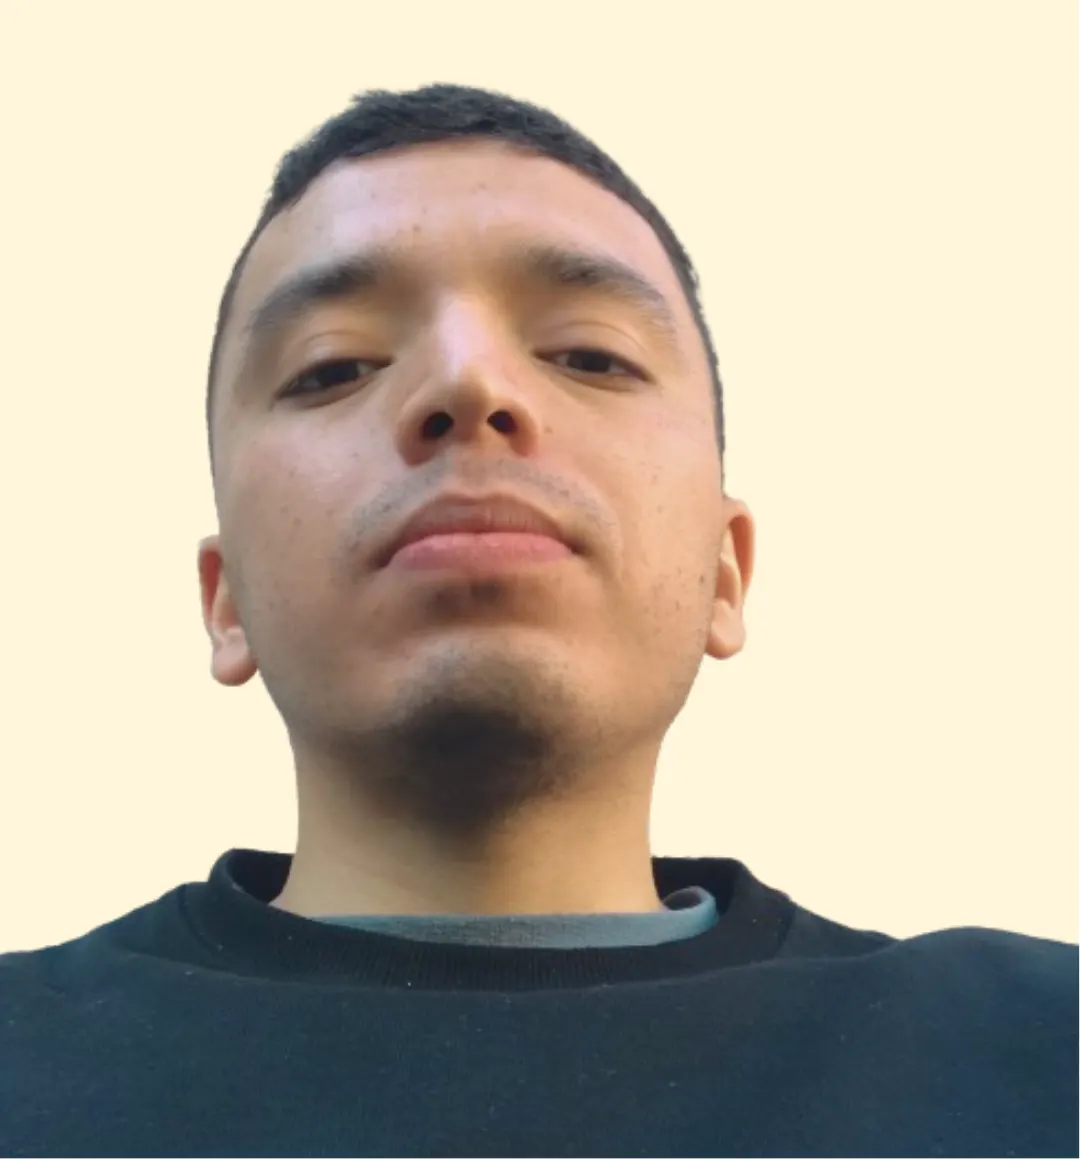
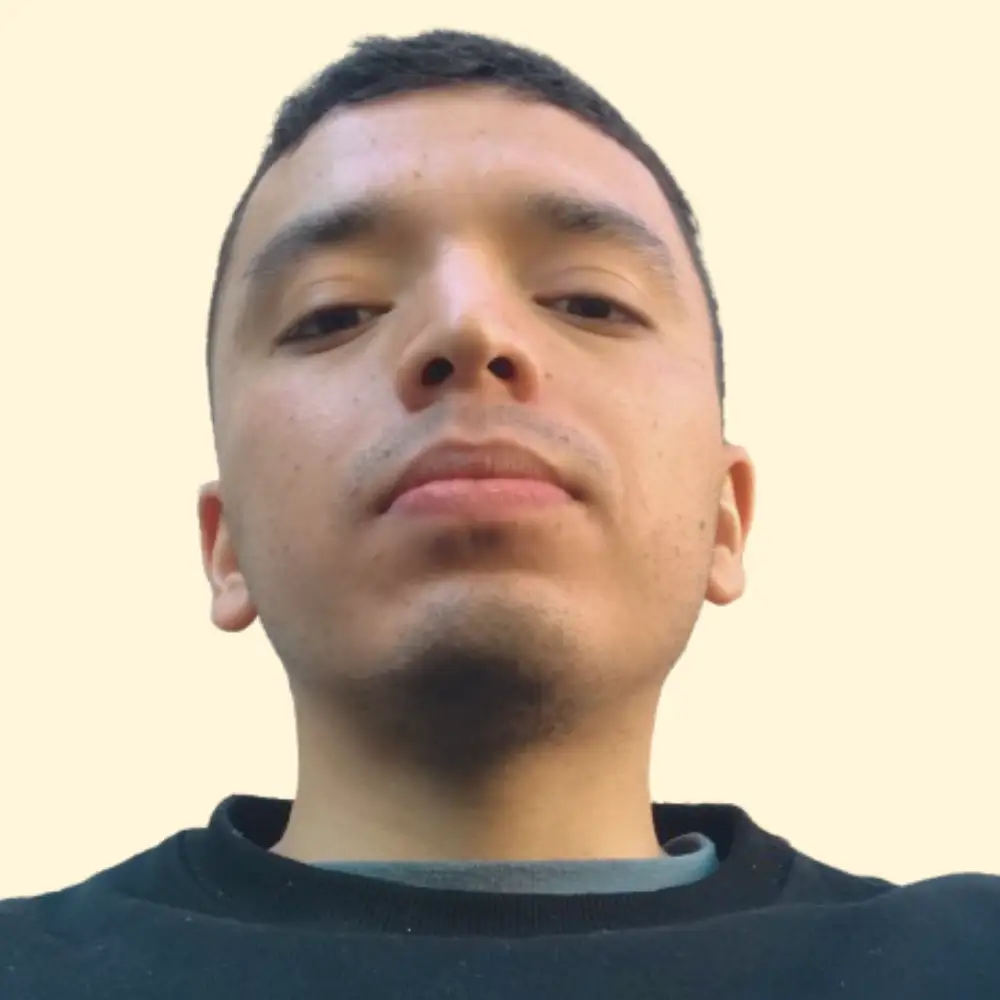
Add ProyectoCamanchaca image and update user profile

diff --git a/src/sections/Project/components/ProjectCard/ProjectCard.styles.js b/src/sections/Project/components/ProjectCard/ProjectCard.styles.js
@@ -3,34 +3,77 @@ import styled from "styled-components";
 const CardContainer = styled.article`
   display: flex;
   gap: ${({ theme }) => theme.spacing.medium};
-  padding: ${({ theme }) => theme.padding.large} ${({ theme }) => theme.padding.medium};
   border-radius: ${({ theme }) => theme.borderRadius.medium};
   background-color: ${({ theme }) => theme.colors.hover.secondary};
+  width: 100%;
+
+  & img {
+    filter: grayscale(100%);
+    transition: filter 0.3s ease;
+  }
+
+  &:hover img {
+    filter: grayscale(0%);
+    transform: scale(1.05);
+    transition: transform 0.3s ease;
+  }
 
   @media (width <= ${({ theme }) => theme.breakpoints.tablet}) {
     flex-direction: column;
   }
 `;
 
+const CardHeader = styled.header`
+  border-bottom: 1px solid ${({ theme }) => theme.colors.tertiary};
+
+  @media (width <= ${({ theme }) => theme.breakpoints.tablet}) {
+    text-align: center;
+  }
+`;
+
 const CardContentLeft = styled.section`
   display: flex;
   flex-direction: column;
+  width: 100%;
+  gap: ${({ theme }) => theme.spacing.medium};
+  padding: ${({ theme }) => theme.padding.large} 0;
+  padding-left: ${({ theme }) => theme.padding.medium};
+`;
+
+const CardContentRight = styled.section`
+  display: flex;
+  /* flex-direction: column; */
   justify-content: center;
   align-items: center;
-  gap: ${({ theme }) => theme.spacing.medium};
-  min-width: 220px;
-  
+  /* gap: ${({ theme }) => theme.spacing.medium}; */
+  min-width: 350px;
+  border-radius: 0 ${({ theme }) => theme.borderRadius.medium}
+  ${({ theme }) => theme.borderRadius.medium} 0;
+  overflow: hidden;
+
   @media (width <= ${({ theme }) => theme.breakpoints.tablet}) {
     order: 2;
     width: 100%;
   }
 `;
 
-const CardContentRight = styled.section`
+const CardLogoAnchor = styled.a`
   display: flex;
-  flex-direction: column;
-  gap: ${({ theme }) => theme.spacing.medium};
+  justify-content: center;
+  align-items: center;
+  width: 350px;
 `;
 
+const CardLogoImg = styled.img`
+  width: 350px;
+  aspect-ratio: 2962 / 2371;
+`;
 
-export { CardContainer, CardContentLeft, CardContentRight };
+export {
+  CardContainer,
+  CardContentLeft,
+  CardContentRight,
+  CardHeader,
+  CardLogoAnchor,
+  CardLogoImg,
+};

diff --git a/src/sections/Project/components/ProjectCard/ProjectCard.jsx b/src/sections/Project/components/ProjectCard/ProjectCard.jsx
@@ -1,7 +1,27 @@
-import { CardContainer } from "./ProjectCard.styles"
+import { CardContainer, CardContentLeft, CardContentRight, CardHeader, CardLogoAnchor, CardLogoImg } from "./ProjectCard.styles"
+import { ProyectoCamanchaca } from "../../../../assets/images"
+import { H4 } from "../../../../components"
+
+
 const ProjectCard = () => {
   return (
-    <CardContainer>ProjectCard</CardContainer>
+    <CardContainer>
+      <CardContentLeft>
+        <CardHeader>
+          <H4>Planificador de Servicios Logísticos</H4>
+        </CardHeader>
+      </CardContentLeft>
+      <CardContentRight>
+        <CardLogoAnchor
+          href="https://www.ubiobio.cl/"
+          target="_blank"
+          rel="noopener noreferrer"
+        >
+          <CardLogoImg src={ProyectoCamanchaca} alt="Universidad del Bío-Bío" />
+        </CardLogoAnchor>
+      </CardContentRight>
+
+    </CardContainer>
   )
 }
 

diff --git a/src/sections/Profile/components/UserProfile/UserProfile.jsx b/src/sections/Profile/components/UserProfile/UserProfile.jsx
@@ -11,7 +11,7 @@ export const UserProfile = () => {
     <UserContainer>
       <UserCoverImage src={setup} alt="Imagen de portada del perfil" />
       <UserAvatar>
-        <UserAvatarImage src={userPhoto} alt="Foto de perfil del usuario" />
+      <UserAvatarImage src={userPhoto} alt="Foto de perfil del usuario" />
       </UserAvatar>
     </UserContainer>
   );

diff --git a/src/components/TextComponents/TextComponents.js b/src/components/TextComponents/TextComponents.js
@@ -44,7 +44,7 @@ const H4 = styled.h4`
   letter-spacing: ${({ theme }) => theme.letterSpacings.small};
   font-weight: 500;
   text-transform: uppercase;
-
+  
   @media (width <= ${({ theme }) => theme.breakpoints.tablet}) {
     font-size: ${({ theme }) => theme.fontSizes.small};
     line-height: ${({ theme }) => theme.lineHeights.medium};

diff --git a/src/assets/images/index.js b/src/assets/images/index.js
@@ -2,4 +2,4 @@ export { default as setup } from "./setup.webp";
 export { default as logoUbbColor } from "./ubb-logo-color.webp";
 export { default as logoUbbBlack} from "./ubb-logo-black.webp";
 export { default as userPhoto } from "./user.webp";
-
+export {default as ProyectoCamanchaca} from "./proyecto_camanchaca.webp";

diff --git a/src/sections/Profile/components/UserProfile/UserProfile.styles.js b/src/sections/Profile/components/UserProfile/UserProfile.styles.js
@@ -32,8 +32,10 @@ const UserAvatar = styled.div`
 
 const UserAvatarImage = styled.img`
   width: 130px;
-  aspect-ratio: 1080 / 1159;
-  border-radius: 50%;
+  height: 130px;
+  border-radius: 100%;
+  aspect-ratio: 1 / 1;  
 `;
 
 export { UserAvatar, UserAvatarImage, UserContainer, UserCoverImage };
+
